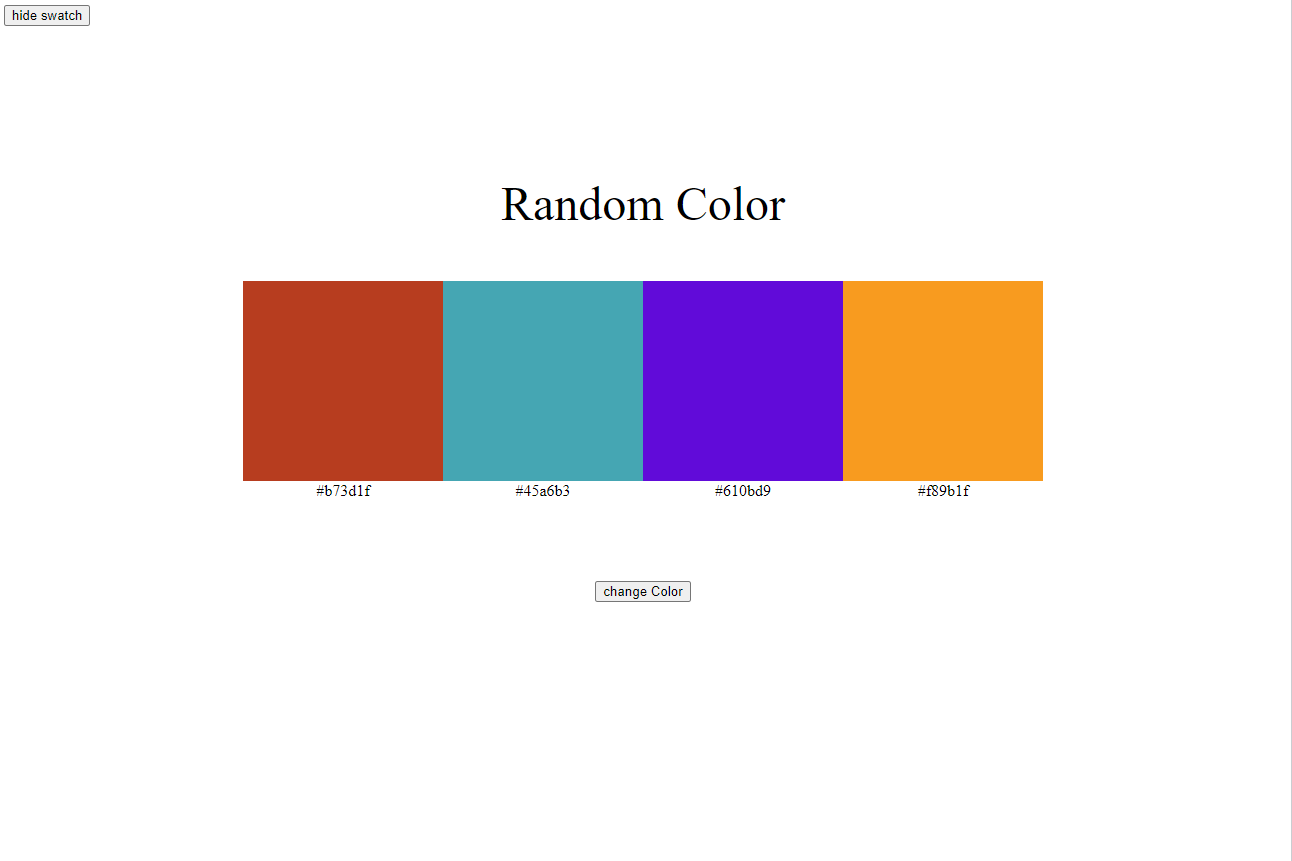
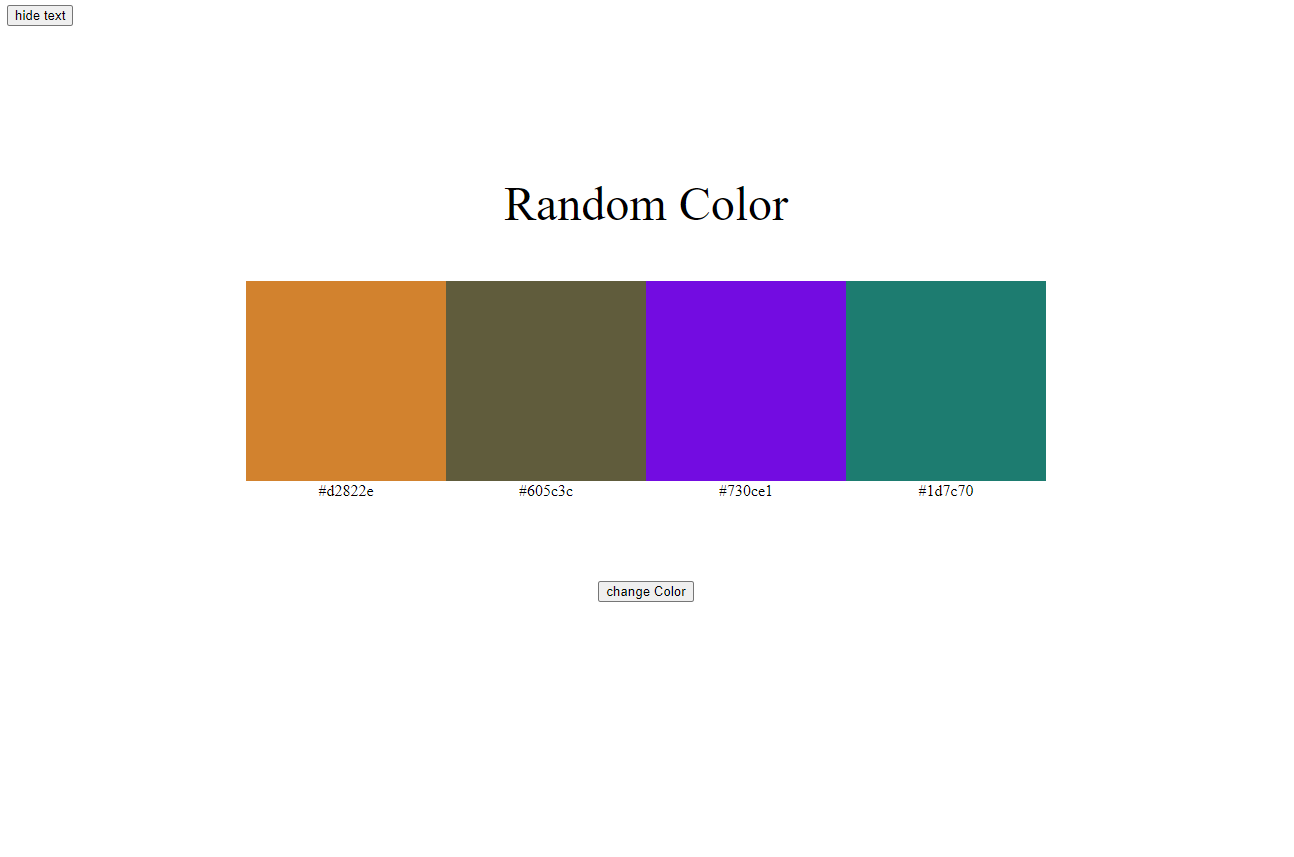
[modify] 1.更改圖案樣式 2.修正文字內容

diff --git a/colorsnipet.html b/colorsnipet.html
@@ -45,7 +45,7 @@
     </style>
 </head>
 <body>
-    <button onclick="colortextToggleHandler()" class="toggleTextButton">hide swatch</button>
+    <button onclick="colortextToggleHandler()" class="toggleTextButton">hide text</button>
     <div class="title">Random Color</div>
     <div class="colorcontainer">
         <div class="colorone color"></div>
